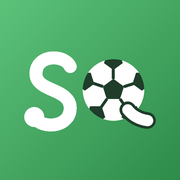
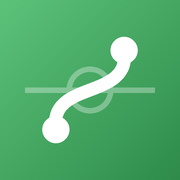
[update] さくせん盤のアイコンを最初の S 字（作戦の線と選手2人）に戻す

Changed region(s): [[0.1111, 0.1944, 0.8889, 0.8056]]

diff --git a/tools/icon.py b/tools/icon.py
@@ -1,17 +1,16 @@
 #!/usr/bin/env python3
 """さくせん盤（SAQSEN）のアイコンを作る。
 
-S と Q を組んだ形。おくるん（OQRN）のアイコンと同じ角の丸い四角に、ピッチの緑のグラデーション。
-  S … 左の S。終わり（左下）は選手の丸で、作戦の線にも見える（作戦盤の線と同じく矢印なし）
-  Q … サッカーボールに、ボールの中から右下へ抜けるしっぽ（おくるんの Q と同じく、しっぽは右へはねる）
+おくるん（OQRN）のアイコンと同じ角の丸い四角に、ピッチの緑のグラデーション。
+中は、白い S 字の作戦の線（パスの通り道）と、その両端の選手2人。後ろにうっすらピッチの線（ハーフウェーラインとセンターサークル）。
+S 字は「さくせん（SAQSEN）」の S も兼ねる。作戦盤の線と同じく矢印は付けない。
 
-  icon.svg             … ファビコン・見出し
+  icon.svg             … ファビコン
   apple-touch-icon.png … iPhone のホーム画面（180px）
   icon-512.png         … 大きいアイコン（512px）
 
 Pillow が必要。使い方: python3 tools/icon.py
 """
-import math
 from pathlib import Path
 
 from PIL import Image, ImageDraw
@@ -21,66 +20,35 @@ ROOT = Path(__file__).resolve().parent.parent
 PITCH_DARK = (46, 139, 74)  # style.css の --pitch
 PITCH_LIGHT = (92, 194, 122)
 WHITE = (255, 255, 255)
-BALL_INK = (31, 61, 42)  # ボールの模様（濃い緑がかった黒）
 
 # 形（100 × 100 の座標）
 RADIUS = 23  # 角の丸み（おくるんと同じ）
-BALL = (63, 50, 17)  # Q の輪＝サッカーボール（中心 x, y, 半径）
-TAIL = ((71, 61), (75, 66), (82, 67))  # Q のしっぽ：ボールの中から右下へ抜けて、右へはねる（2次ベジェ）
-TAIL_WIDTH = 6
-# S（3次ベジェを2つ）：上の右端から左へ回り、まん中で右へ、下で左へ回って終わる。終わりは選手（作戦の線）
-S_PATHS = (((39, 37), (36, 30), (20, 30), (20, 41)), ((20, 41), (20, 51), (39, 49), (39, 60)), ((39, 60), (39, 71), (23, 72), (19, 65)))
+S_PATH = ((31, 72), (27, 44), (73, 56), (69, 28))  # S 字（3次ベジェ）：左下の選手から右上の選手へ
 S_WIDTH = 7
-PLAYER_R = 5.5
+PLAYER_R = 7.5
+FAINT = 0.32  # ピッチの線の濃さ
 
 
 def hex_(rgb):
     return "#%02x%02x%02x" % rgb
 
 
-def pentagon(cx, cy, r, rot=-90):
-    return [(cx + r * math.cos(math.radians(rot + 72 * i)), cy + r * math.sin(math.radians(rot + 72 * i))) for i in range(5)]
-
-
-def ball_parts():
-    """ボールの模様：真ん中の五角形と、ふちの5つの五角形（輪で切る）、それをつなぐ線"""
-    cx, cy, r = BALL
-    center = pentagon(cx, cy, r * 0.36)
-    outer = [pentagon(cx + r * 0.98 * math.cos(math.radians(-90 + 72 * i)), cy + r * 0.98 * math.sin(math.radians(-90 + 72 * i)), r * 0.32, -90 + 72 * i + 36) for i in range(5)]
-    spokes = [(center[i], (cx + r * 0.7 * math.cos(math.radians(-90 + 72 * i)), cy + r * 0.7 * math.sin(math.radians(-90 + 72 * i)))) for i in range(5)]
-    return center, outer, spokes
-
-
 def svg():
-    cx, cy, r = BALL
-    center, outer, spokes = ball_parts()
-    pts = lambda poly: " ".join(f"{x:.2f},{y:.2f}" for x, y in poly)  # noqa: E731
-    s_d = "M{0} {1}".format(*S_PATHS[0][0]) + "".join("C{} {} {} {} {} {}".format(*a, *b, *c) for _, a, b, c in S_PATHS)
-    x0, y0 = S_PATHS[-1][-1]
-    (tx0, ty0), (tx1, ty1), (tx2, ty2) = TAIL
-    ink = hex_(BALL_INK)
+    (x0, y0), (x1, y1), (x2, y2), (x3, y3) = S_PATH
+    faint = f'stroke="#ffffff" stroke-opacity="{FAINT}" stroke-width="3" fill="none"'
     return (
         '<svg xmlns="http://www.w3.org/2000/svg" viewBox="0 0 100 100">'
         f'<defs><linearGradient id="g" x1="0" y1="0" x2="1" y2="1"><stop offset="0" stop-color="{hex_(PITCH_LIGHT)}"/>'
-        f'<stop offset="1" stop-color="{hex_(PITCH_DARK)}"/></linearGradient>'
-        f'<clipPath id="b"><circle cx="{cx}" cy="{cy}" r="{r}"/></clipPath></defs>'
+        f'<stop offset="1" stop-color="{hex_(PITCH_DARK)}"/></linearGradient></defs>'
         f'<rect width="100" height="100" rx="{RADIUS}" fill="url(#g)"/>'
-        f'<path d="{s_d}" stroke="#ffffff" stroke-width="{S_WIDTH}" stroke-linecap="round" fill="none"/>'
-        f'<circle cx="{x0}" cy="{y0}" r="{PLAYER_R}" fill="#ffffff"/>'
-        f'<circle cx="{cx}" cy="{cy}" r="{r}" fill="#ffffff"/>'
-        f'<g clip-path="url(#b)" fill="{ink}" stroke="{ink}" stroke-width="1.6" stroke-linejoin="round">'
-        f'<polygon points="{pts(center)}"/>'
-        + "".join(f'<polygon points="{pts(p)}"/>' for p in outer)
-        + "".join(f'<path d="M{a[0]:.2f} {a[1]:.2f}L{b[0]:.2f} {b[1]:.2f}" fill="none"/>' for a, b in spokes)
-        + "</g>"
-        # しっぽはボールの上に重ねる（ふちを濃い色で囲んでボールと分ける）
-        + f'<path d="M{tx0} {ty0}Q{tx1} {ty1} {tx2} {ty2}" stroke="{ink}" stroke-width="{TAIL_WIDTH + 3}" stroke-linecap="round" fill="none"/>'
-        + f'<path d="M{tx0} {ty0}Q{tx1} {ty1} {tx2} {ty2}" stroke="#ffffff" stroke-width="{TAIL_WIDTH}" stroke-linecap="round" fill="none"/>'
-        + "</svg>"
+        f'<path d="M14 50H86" {faint}/><circle cx="50" cy="50" r="13" {faint}/>'
+        f'<path d="M{x0} {y0}C{x1} {y1} {x2} {y2} {x3} {y3}" stroke="#ffffff" stroke-width="{S_WIDTH}" stroke-linecap="round" fill="none"/>'
+        f'<circle cx="{x0}" cy="{y0}" r="{PLAYER_R}" fill="#ffffff"/><circle cx="{x3}" cy="{y3}" r="{PLAYER_R}" fill="#ffffff"/>'
+        "</svg>"
     )
 
 
-def cubic(points, n=800):
+def cubic(points, n=200):
     (x0, y0), (x1, y1), (x2, y2), (x3, y3) = points
     out = []
     for i in range(n + 1):
@@ -95,7 +63,7 @@ def png(size, rounded=True):
     scale = size * 4 / 100
     big = size * 4
     s = lambda v: v * scale  # noqa: E731
-    sp = lambda poly: [(s(x), s(y)) for x, y in poly]  # noqa: E731
+    # 背景のグラデーション（左上が明るく、右下が濃い）
     grad = Image.new("RGB", (big, big))
     px = grad.load()
     for y in range(big):
@@ -106,36 +74,21 @@ def png(size, rounded=True):
     ImageDraw.Draw(mask).rounded_rectangle((0, 0, big - 1, big - 1), radius=s(RADIUS) if rounded else 0, fill=255)
     img = Image.new("RGBA", (big, big), (0, 0, 0, 0))
     img.paste(grad, (0, 0), mask)
+    # うっすらピッチの線
+    lines = Image.new("RGBA", (big, big), (0, 0, 0, 0))
+    d = ImageDraw.Draw(lines)
+    faint = (255, 255, 255, round(255 * FAINT))
+    d.line((s(14), s(50), s(86), s(50)), fill=faint, width=round(s(3)))
+    d.ellipse((s(37), s(37), s(63), s(63)), outline=faint, width=round(s(3)))
+    img = Image.alpha_composite(img, lines)
+    # S 字の線（丸い端）と選手2人
     d = ImageDraw.Draw(img)
-
-    def stroke(points, width, color=WHITE):
-        half = s(width) / 2
-        for x, y in points:
-            ImageDraw.Draw(img).ellipse((s(x) - half, s(y) - half, s(x) + half, s(y) + half), fill=color)
-
-    # S と、その終わりの選手
-    for seg in S_PATHS:
-        stroke(cubic(seg), S_WIDTH)
-    x0, y0 = S_PATHS[-1][-1]
-    d.ellipse((s(x0 - PLAYER_R), s(y0 - PLAYER_R), s(x0 + PLAYER_R), s(y0 + PLAYER_R)), fill=WHITE)
-    # ボール（白い輪の中に模様。ふちの五角形は輪で切る）
-    cx, cy, r = BALL
-    d.ellipse((s(cx - r), s(cy - r), s(cx + r), s(cy + r)), fill=WHITE)
-    pattern = Image.new("RGBA", (big, big), (0, 0, 0, 0))
-    pd = ImageDraw.Draw(pattern)
-    center, outer, spokes = ball_parts()
-    for poly in [center, *outer]:
-        pd.polygon(sp(poly), fill=BALL_INK)
-    for a, b in spokes:
-        pd.line([(s(a[0]), s(a[1])), (s(b[0]), s(b[1]))], fill=BALL_INK, width=round(s(1.6)))
-    clip = Image.new("L", (big, big), 0)
-    ImageDraw.Draw(clip).ellipse((s(cx - r), s(cy - r), s(cx + r), s(cy + r)), fill=255)
-    img.paste(pattern, (0, 0), Image.composite(pattern.getchannel("A"), Image.new("L", (big, big), 0), clip))
-    # Q のしっぽ（ボールの上に重ね、ふちを濃い色で囲む）
-    (tx0, ty0), (tx1, ty1), (tx2, ty2) = TAIL
-    tail = [((1 - t) ** 2 * tx0 + 2 * (1 - t) * t * tx1 + t * t * tx2, (1 - t) ** 2 * ty0 + 2 * (1 - t) * t * ty1 + t * t * ty2) for t in (i / 400 for i in range(401))]
-    stroke(tail, TAIL_WIDTH + 3, BALL_INK)
-    stroke(tail, TAIL_WIDTH)
+    # 線は丸を細かく並べて描く（太い線でもふちがなめらか）
+    half = s(S_WIDTH) / 2
+    for x, y in cubic(S_PATH, n=800):
+        d.ellipse((s(x) - half, s(y) - half, s(x) + half, s(y) + half), fill=WHITE)
+    for x, y in (S_PATH[0], S_PATH[3]):
+        d.ellipse((s(x - PLAYER_R), s(y - PLAYER_R), s(x + PLAYER_R), s(y + PLAYER_R)), fill=WHITE)
     return img.resize((size, size), Image.LANCZOS)
 
 

diff --git a/README.md b/README.md
@@ -2,7 +2,7 @@
 
 サッカー・フットサルのスタメン発表・作戦盤・試合結果のツール。名前は「さくせん盤」（英字は SAQSEN。おくるん＝OQRN と同じ作り方）。ふだん見せるのはひらがなの「さくせん盤」、英字は見出しの下の小さな文字やロゴに使う。送るカードはおくるんで作る。
 
-アイコン（`icon.svg`・`apple-touch-icon.png`・`icon-512.png`）は `python3 tools/icon.py` で作る：S と Q を組んだ形（SAQSEN の SQ。おくるん＝OQRN の Q と並ぶ）。おくるんと同じ角の丸い四角に、ピッチの緑。S の終わりは選手の丸（作戦の線にも見える）、Q はサッカーボールに右下へはねるしっぽ。
+アイコン（`icon.svg`・`apple-touch-icon.png`・`icon-512.png`）は `python3 tools/icon.py` で作る：おくるんと同じ角の丸い四角に、ピッチの緑。白い S 字の作戦の線（パスの通り道。さくせんの S）と両端の選手2人、うっすらピッチの線。
 
 サッカー・フットサルのスタメン発表と作戦盤。選手をピッチに並べて、[おくるん](https://katsuan.github.io/line-share/)の「お知らせカード」で LINE にカードとして送れます。試合結果のカードも作れます。GitHub Pages でそのまま動く静的サイトです。
 
